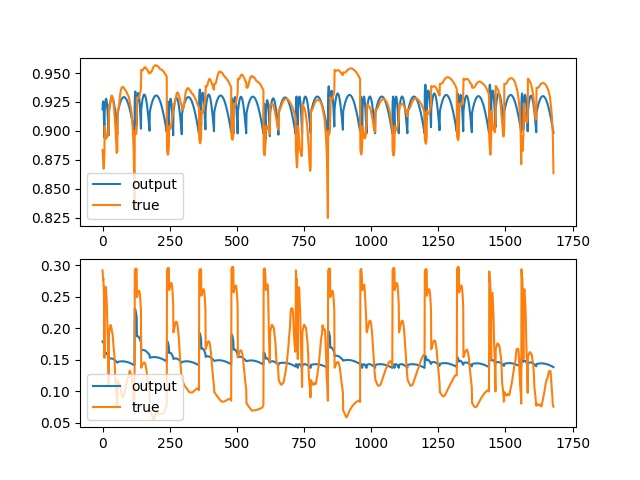
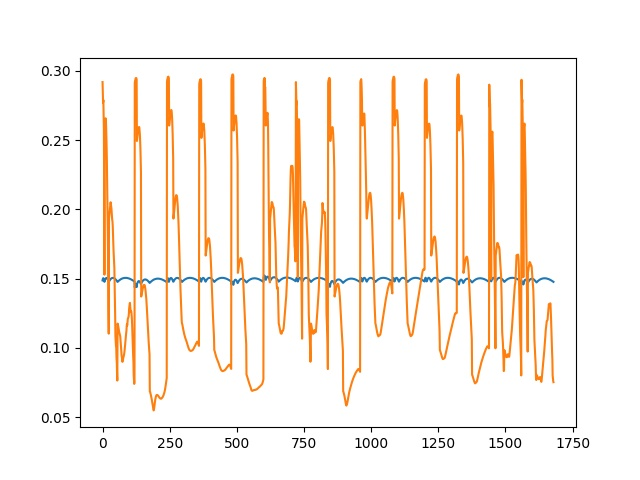
runable exp for lab data, bad result

diff --git a/train.py b/train.py
@@ -11,7 +11,7 @@ from tqdm import tqdm
 import matplotlib.pyplot as plt
 
 from models import GMLP
-from utils import load_citation, rmse, get_A_r, load_citation_in_order
+from utils import load_citation, rmse, get_A_r, load_citation_in_order, accuracy
 import warnings
 warnings.filterwarnings('ignore')
 
@@ -48,14 +48,17 @@ args.cuda = not args.no_cuda and torch.cuda.is_available()
 ## get data
 adj, features, labels, idx_train, idx_val, idx_test = load_citation_in_order(args.data, 'AugNormAdj', args.cuda)
 adj = adj.to_dense()
+# adj_label = adj
 adj_label = torch.where(adj < args.theta, torch.zeros_like(adj), torch.ones_like(adj))
-# adj_label = get_A_r(adj, args.order)
+labels = labels[:,1]
+# adj_label = get_A_r(adj_label, args.order)
 
 
 ## Model and optimizer
 model = GMLP(nfeat=features.shape[1],
             nhid=args.hidden,
-            nclass=labels.shape[1],
+            # nclass=labels.shape[1],
+            nclass=1,
             dropout=args.dropout,
             )
 optimizer = optim.Adam(model.parameters(),
@@ -93,7 +96,7 @@ def get_batch(batch_size):
 
 def get_neighbour_batch(cur):
     batch_indx = torch.nonzero(adj_label[cur]).squeeze(1)
-    batch_indx = batch_indx[torch.nonzero(torch.where(batch_indx > cur, torch.zeros_like(batch_indx), batch_indx)).squeeze(1)]
+    # batch_indx = batch_indx[torch.nonzero(torch.where(batch_indx > cur, torch.zeros_like(batch_indx), batch_indx)).squeeze(1)]
     features_batch = features[batch_indx]
     adj_label_batch = adj_label[batch_indx, :][:, batch_indx]
     return features_batch, adj_label_batch, batch_indx
@@ -143,25 +146,30 @@ def my_test():
 
 def print_pic(output, out, name) :
     plt.figure()
-    plt.subplot(2,1,1)
     mx_idx = output.shape[0]
-    plt.plot(range(mx_idx), output.detach().cpu().numpy()[:, 0], label='output')
-    plt.plot(range(mx_idx), out.detach().cpu().numpy()[:, 0], label='true')
-    plt.legend(loc=3)
-    plt.subplot(2,1,2)
-    plt.plot(range(mx_idx), output.detach().cpu().numpy()[:,1], label='output')
-    plt.plot(range(mx_idx), out.detach().cpu().numpy()[:,1], label='true')
-    plt.legend(loc=3)
+    # print pic for two outputs
+    # plt.subplot(2,1,1)
+    # plt.plot(range(mx_idx), output.detach().cpu().numpy()[:, 0], label='output')
+    # plt.plot(range(mx_idx), out.detach().cpu().numpy()[:, 0], label='true')
+    # plt.legend(loc=3)
+    # plt.subplot(2,1,2)
+    # plt.plot(range(mx_idx), output.detach().cpu().numpy()[:,1], label='output')
+    # plt.plot(range(mx_idx), out.detach().cpu().numpy()[:,1], label='true')
+    # plt.legend(loc=3)
+
+    #print pic for one pic
+    plt.plot(range(mx_idx), output.detach().cpu().numpy(), label='output')
+    plt.plot(range(mx_idx), out.detach().cpu().numpy(), label='true')
     plt.savefig('./pics/'+name+'.jpg')
 
 best_accu = 0
-best_val_acc = 0
+best_val_acc = 1e10
 print('\n'+'training configs', args)
 for epoch in tqdm(range(args.epochs)):
     train()
     tmp_test_acc, val_acc = test()
     # print(tmp_test_acc, val_acc)
-    if val_acc > best_val_acc:
+    if val_acc < best_val_acc:
         best_val_acc = val_acc
         test_acc = tmp_test_acc
 
@@ -171,7 +179,7 @@ print_pic(output, labels, 'result1')
         
 print(test_acc)
 test_acc, val_acc = my_test()
-print(test_acc, val_acc)
+print(test_acc)
 
 model.eval()
 output = model(features)
